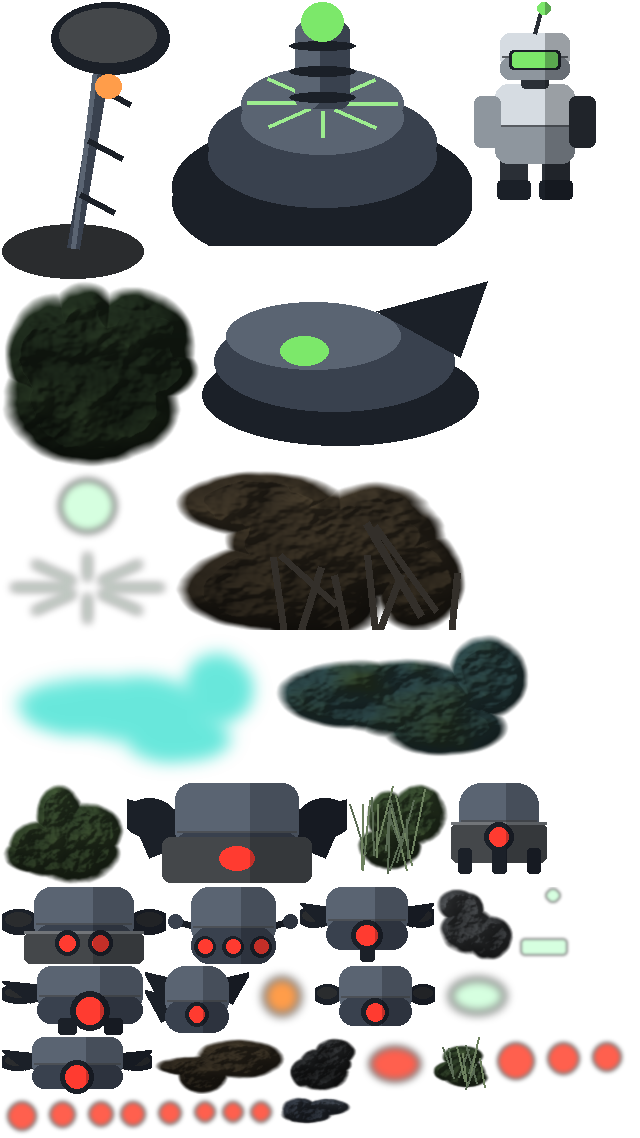
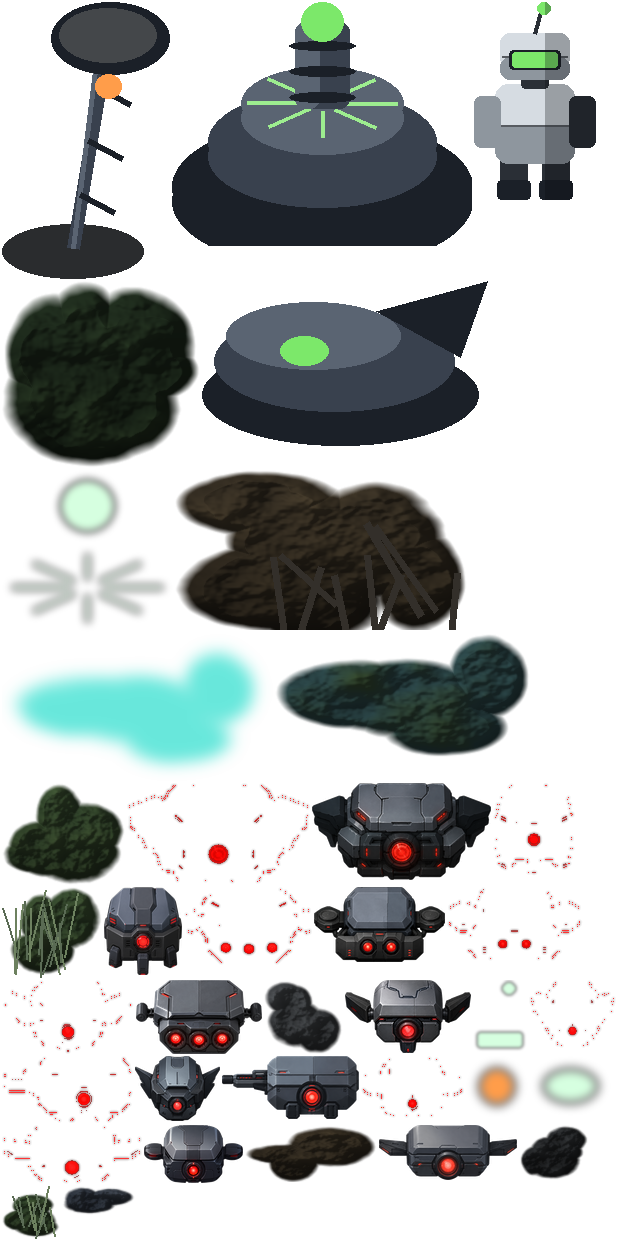
Replace top-down HD enemy art: drifter, diver, elite, sniper, splitter, tagger, turret, warden, weaver
New authored sprites (body + emissive) swapped in for all 9 top-down HD
enemy archetypes and repacked into the runtime atlas via
scripts/art/build-atlas.mjs (37 frames, no missing/extra-frame errors).

Also trims two enemy-only render knobs alongside the new art: at real
combat standoff range the new sprites' larger footprint + wider emissive
"spark ring" (vs. the old single-dot emissive) were blooming enough to
wash out Contact-47's own sprite.

- TD_VISUALS.actorPx.drone: 30 -> 26px (player/elite/node untouched)
- per-drone point light: 54px/0.22 -> 42px/0.16 (SweepScene.addEnemy;
  player/node lights untouched)

Verified live in surface-z1: no missing textures, no console errors,
full 73-test Playwright suite green including the close-combat
readability regression test. Side-view zones/tests unaffected — this
touches only the top-down HD atlas + two enemy-scoped constants.

diff --git a/src/game/scenes/SweepScene.ts b/src/game/scenes/SweepScene.ts
@@ -560,9 +560,13 @@ export class SweepScene extends Phaser.Scene {
           px: TD_VISUALS.actorPx.drone,
           lift: 10, // drones hover — their shadow detaches and softens
           lighting: this.tdLight,
-          lightRadius: 54,
+          // trimmed from 54/0.22 alongside the 2026-07 HD enemy art replacement —
+          // the new sprites' own emissive layer already reads brighter, and
+          // several drones' point-lights stacking at combat range was blowing
+          // out into the player's sprite. Enemy-only knob (player/node untouched).
+          lightRadius: 42,
           lightColor: TD_PALETTE.danger,
-          lightIntensity: 0.22,
+          lightIntensity: 0.16,
         })
       );
     }

diff --git a/src/game/config.ts b/src/game/config.ts
@@ -1256,7 +1256,12 @@ export const TD_VISUALS = {
   /** Per-role on-screen heights in px. The family sprites are authored large
    *  and at different sizes, so a single artScale cannot size them all — each
    *  role declares the height it should READ at and the rig derives the scale. */
-  actorPx: { player: 34, drone: 30, elite: 50, node: 84 },
+  // drone trimmed 30→26px: the replacement HD enemy set (2026-07 art pass) reads
+  // visually larger/brighter than the old placeholder art at the same target
+  // height, and at real combat standoff range (~36px) drones were competing
+  // with — sometimes visually burying — the player's own 34px sprite. Player/
+  // elite/node are untouched.
+  actorPx: { player: 34, drone: 26, elite: 50, node: 84 },
   /** foreshortening: a prop of render height H occupies H*k of ground depth */
   obliqueK: 0.55,
   /** subtle lens tilt — render-y offset per world-y away from camera centre */